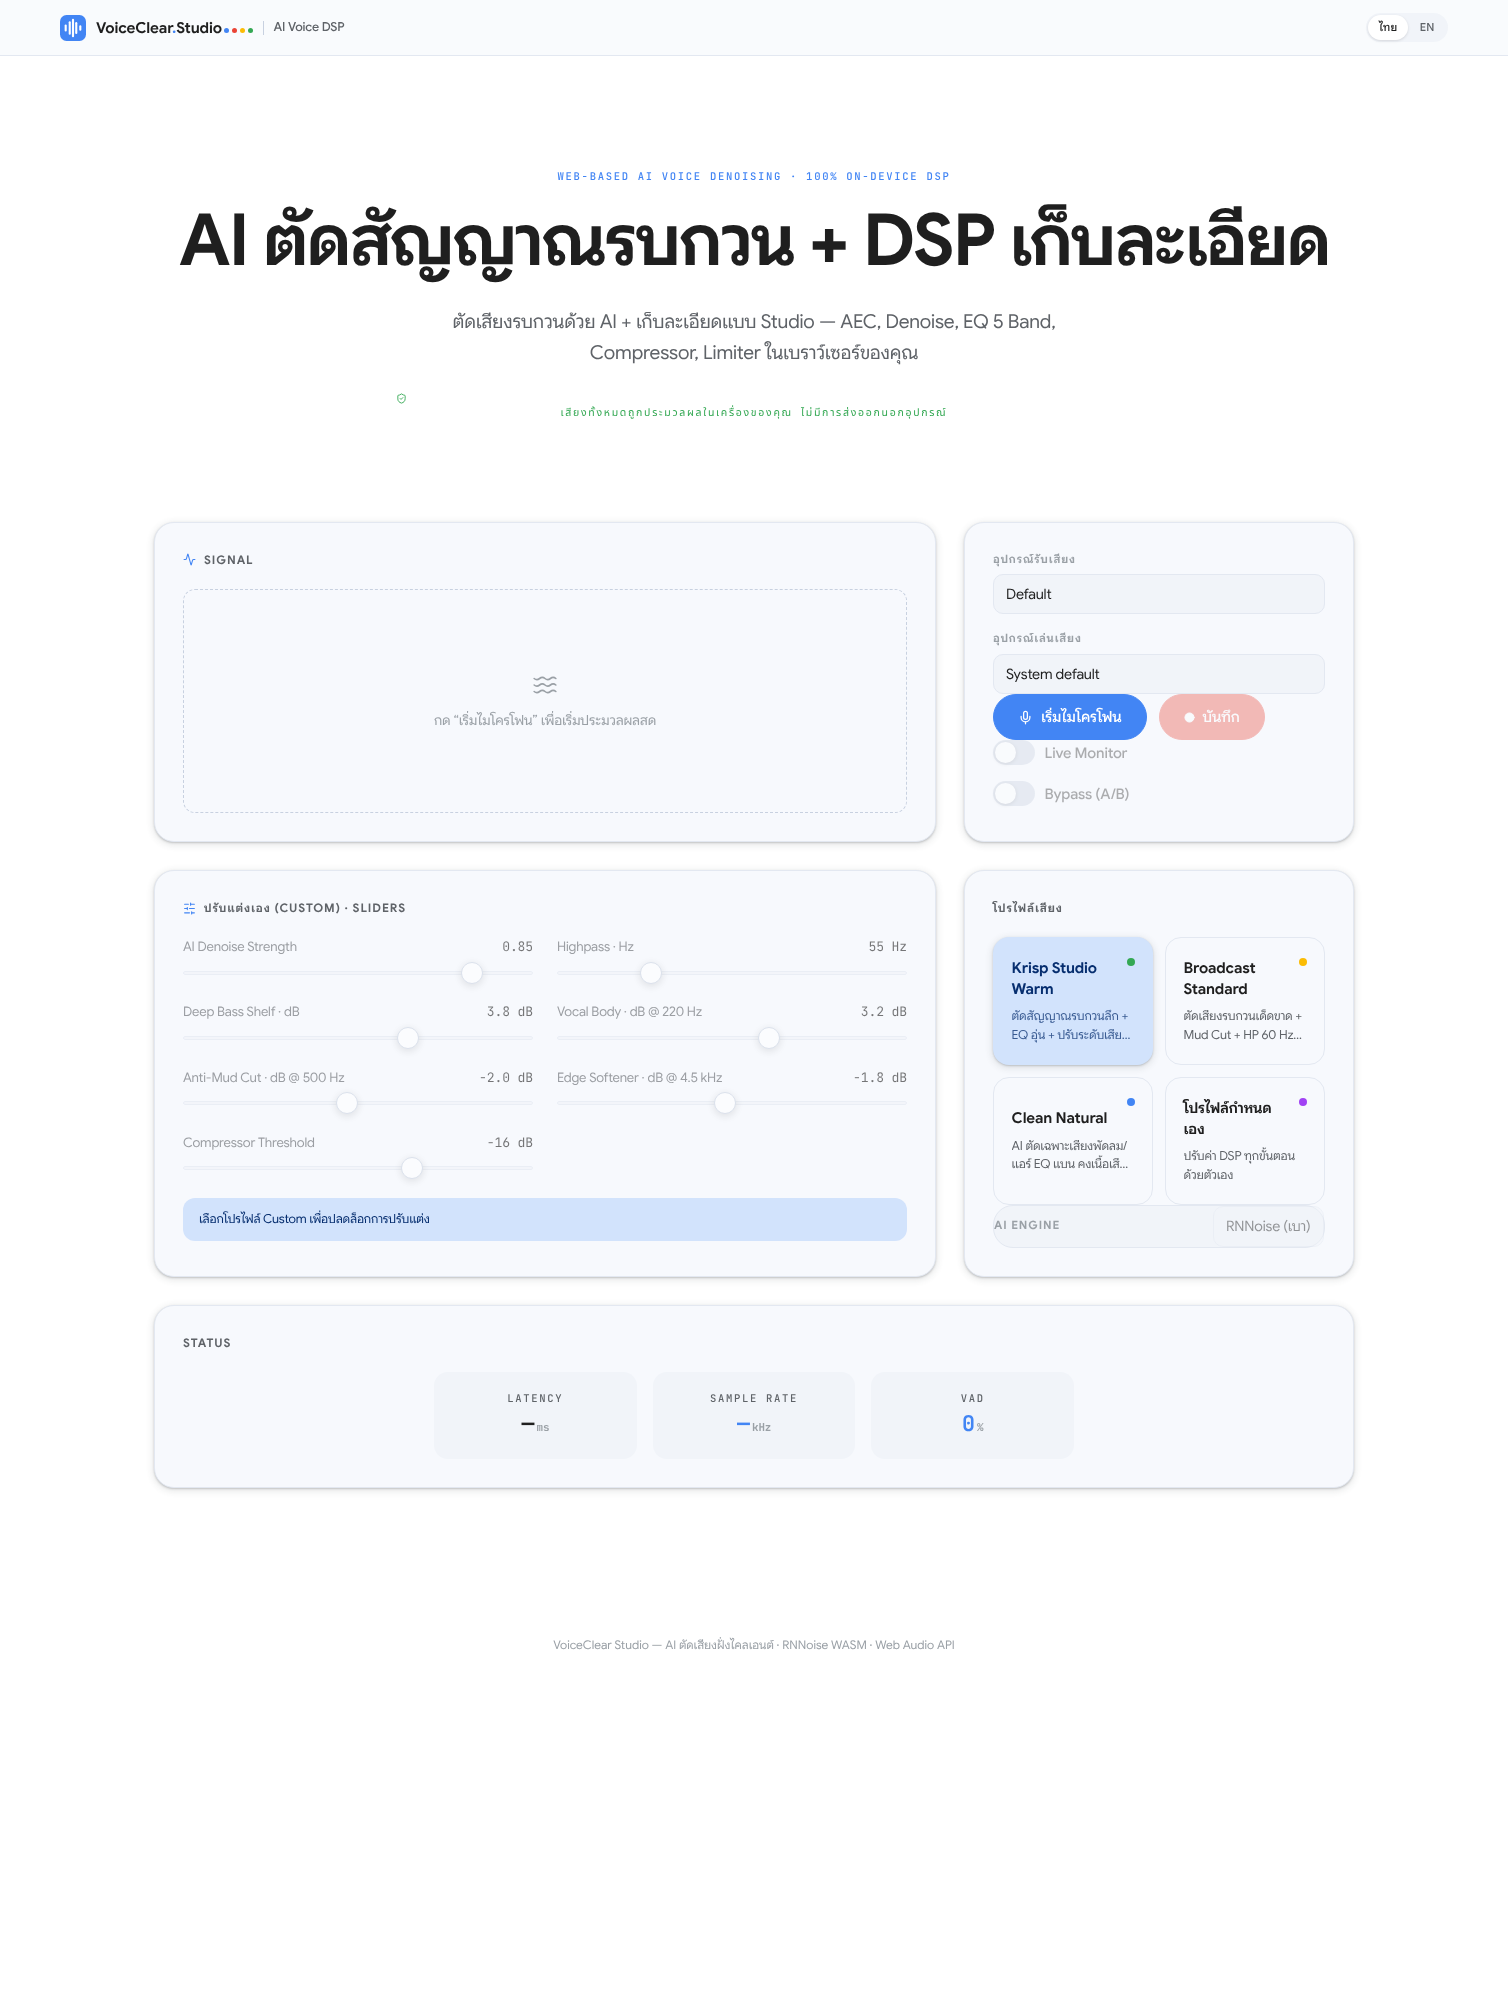
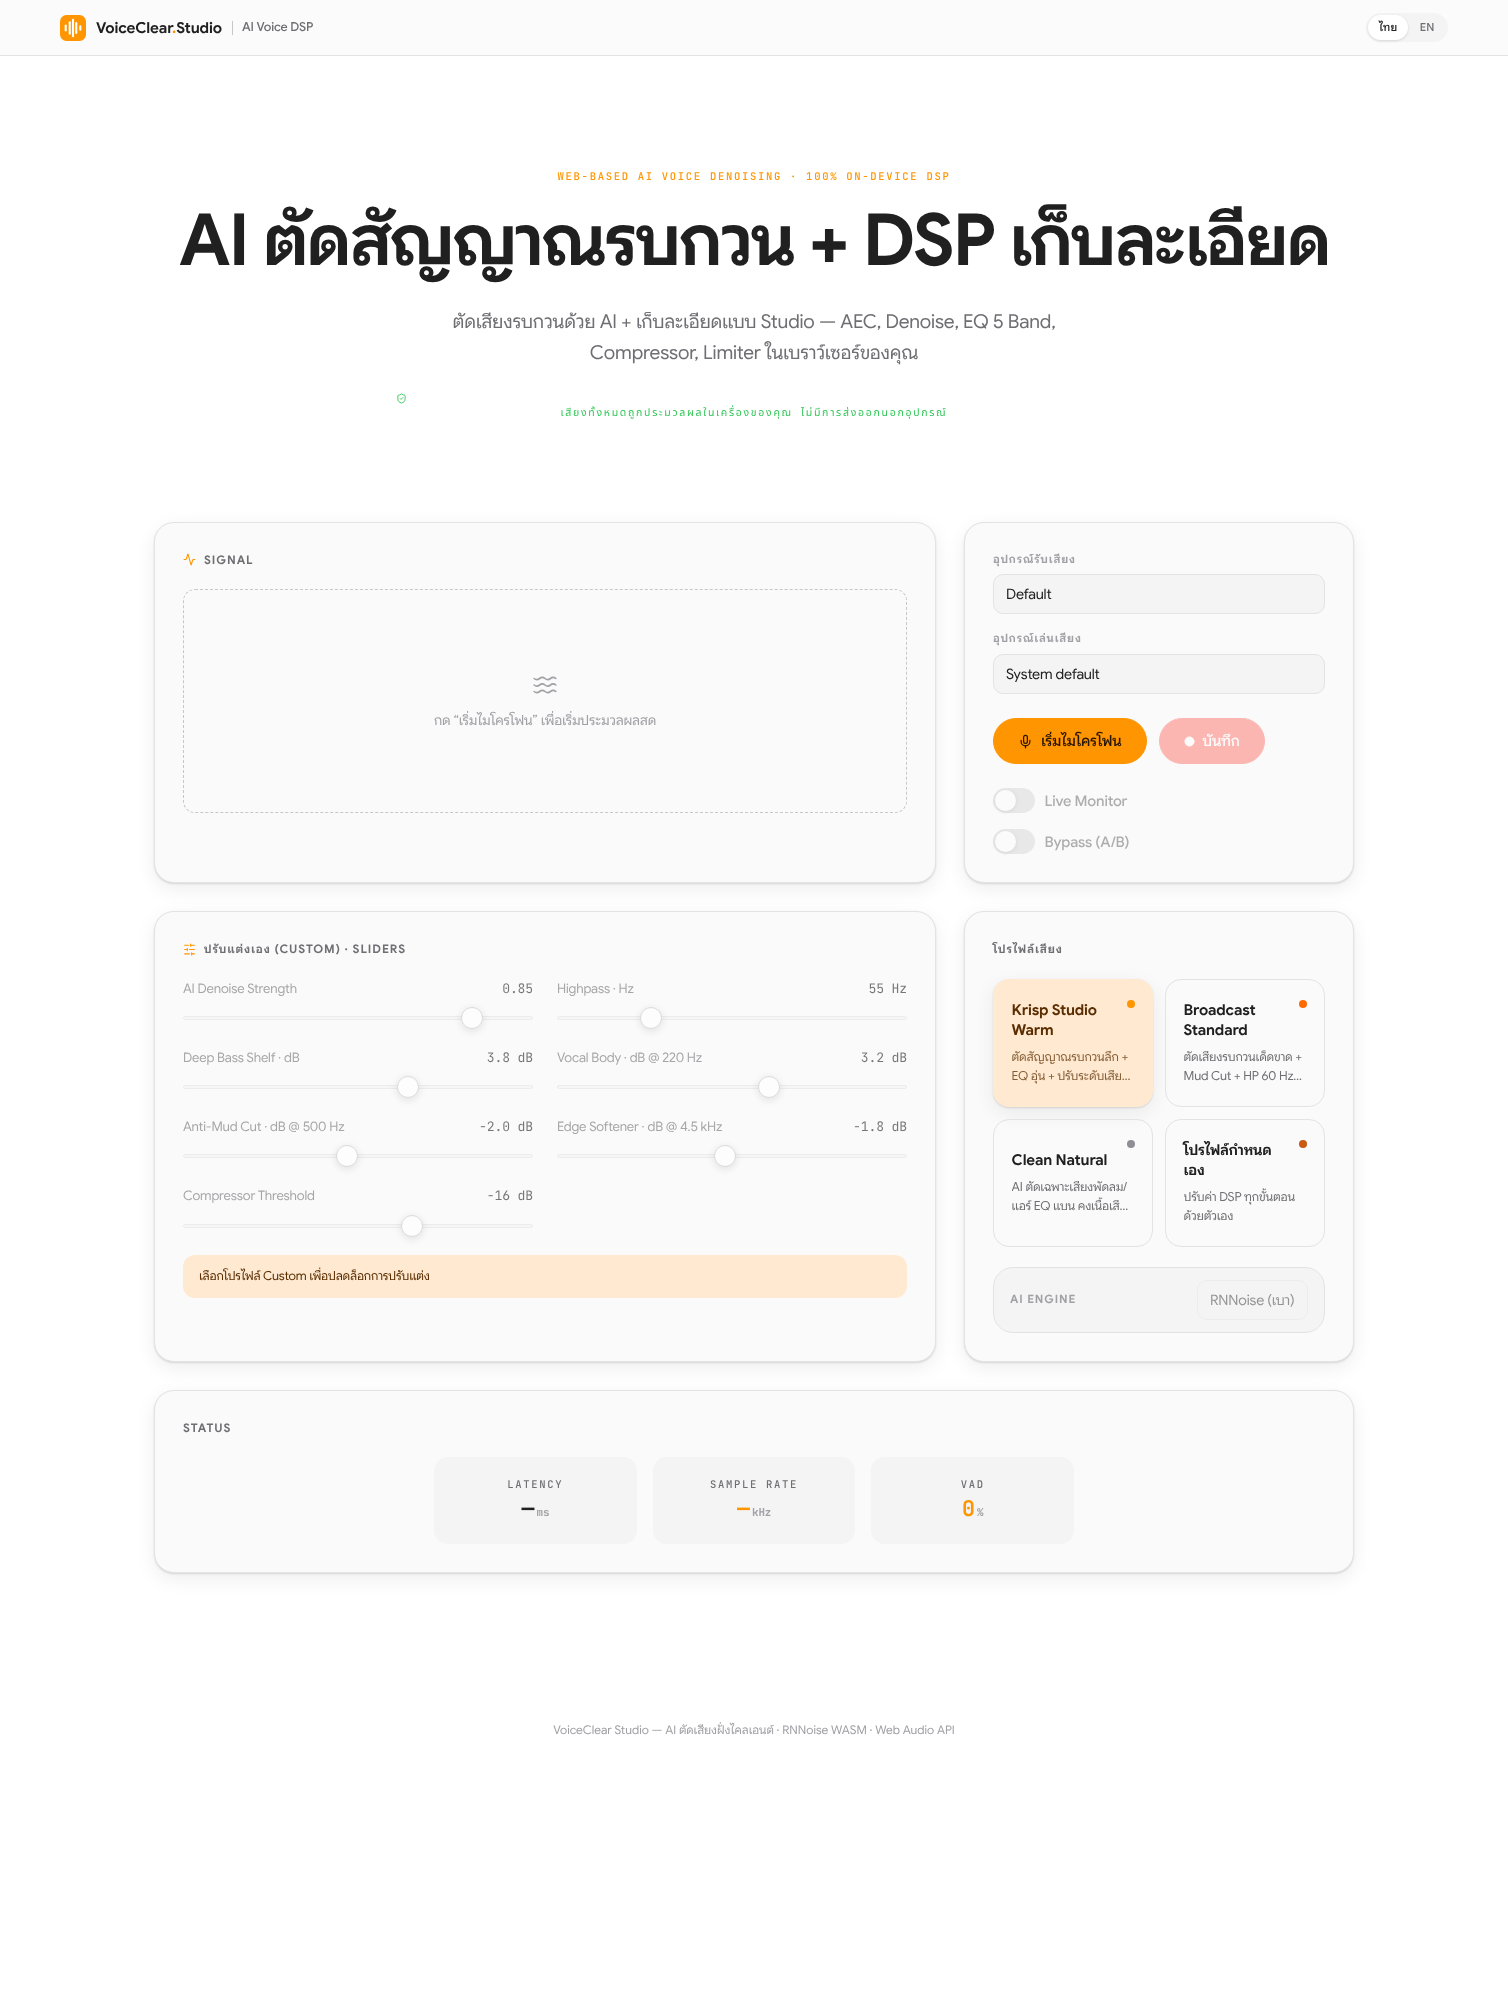
style: switch to white graphite and orange theme

diff --git a/src/index.css b/src/index.css
@@ -1,50 +1,46 @@
 @import "tailwindcss";
 
 /* ═════════════════════════════════════════════
-   APPLE × GOOGLE DESIGN SYSTEM (VoiceClear Studio)
-   Apple structure · Material You palette & elevation · SF + Google Sans
+   WHITE × GRAPHITE × ORANGE DESIGN SYSTEM
+   Apple structure · warm Material tonal surfaces · SF + Google Sans
    ═════════════════════════════════════════════ */
 :root {
   color-scheme: light;
-  /* M3 v2 (light) — neutral with cool tint */
   --bg: #ffffff;
-  --bg-alt: #f1f4f9; /* surface-container */
-  --bg-raised: #f7f9fd; /* surface-container-high */
-  --border: #e3e8f1;
-  --border-strong: #c8d1e0;
-  --text: #1f1f1f;
-  --muted: #5f6368;
-  --faint: #9aa0a6;
+  --bg-alt: #f4f4f5;
+  --bg-raised: #fafafa;
+  --border: #e3e3e3;
+  --border-strong: #c7c7c7;
+  --text: #202020;
+  --muted: #6f6f73;
+  --faint: #a0a0a5;
 
-  /* Google brand palette */
-  --accent: #4285f4; /* Google Blue 500 */
-  --accent-hover: #2f77e8;
-  --g-red: #ea4335;
-  --g-yellow: #fbbc05;
-  --g-green: #34a853;
-  --g-purple: #a142f4;
-  --on-accent: #ffffff;
+  --accent: #ff9500;
+  --accent-hover: #e57d00;
+  --g-red: #ff3b30;
+  --g-yellow: #ffcc00;
+  --g-green: #34c759;
+  --g-purple: #af52de;
+  --on-accent: #2b1700;
 
-  /* Material tonal containers */
-  --primary-container: #d2e3fc;
-  --on-primary-container: #062e6f;
-  --green-container: #ceead6;
-  --on-green-container: #04320f;
-  --red-container: #f8d7d3;
-  --on-red-container: #5b0d06;
+  --primary-container: #ffead1;
+  --on-primary-container: #5a2d00;
+  --green-container: #e2f5e7;
+  --on-green-container: #123d1c;
+  --red-container: #ffe5e2;
+  --on-red-container: #5b1410;
 
   --live: var(--g-green);
   --beta: var(--g-yellow);
   --dev: var(--g-purple);
   --danger: var(--g-red);
   --danger-hover: #d93025;
-  --canvas-bg: #0c0c10;
-  --header-bg: rgba(248, 250, 253, 0.82);
+  --canvas-bg: #111111;
+  --header-bg: rgba(250, 250, 250, 0.86);
 
-  /* Google elevation */
   --shadow-card:
-    0 1px 2px 0 rgba(60, 64, 67, 0.24), 0 2px 6px 2px rgba(60, 64, 67, 0.1);
-  --shadow-glass: 0 8px 28px rgba(60, 64, 67, 0.16);
+    0 1px 2px rgba(0, 0, 0, 0.12), 0 6px 20px rgba(0, 0, 0, 0.07);
+  --shadow-glass: 0 8px 28px rgba(0, 0, 0, 0.12);
 
   --font-sans:
     -apple-system, BlinkMacSystemFont, "SF Pro Display", "SF Pro Text",
@@ -62,33 +58,32 @@
 @media (prefers-color-scheme: dark) {
   :root {
     color-scheme: dark;
-    /* M3 v2 (dark) */
-    --bg: #131314;
-    --bg-alt: #1e1e20;
-    --bg-raised: #28282b;
-    --border: #3c3c43;
-    --border-strong: #54545c;
-    --text: #e4e4e7;
-    --muted: #a1a1a6;
-    --faint: #717176;
+    --bg: #111111;
+    --bg-alt: #1c1c1e;
+    --bg-raised: #262628;
+    --border: #3a3a3c;
+    --border-strong: #545458;
+    --text: #f5f5f7;
+    --muted: #aeaeb2;
+    --faint: #747478;
 
-    --accent: #a8c7fa;
-    --accent-hover: #c1d9fc;
-    --on-accent: #062e6f;
-    --primary-container: #23477d;
-    --on-primary-container: #d2e3fc;
-    --green-container: #0f3d1e;
-    --on-green-container: #ceead6;
-    --red-container: #5c1b13;
-    --on-red-container: #f8d7d3;
-    --g-red: #f28b82;
-    --g-yellow: #fdd663;
-    --g-green: #81c995;
-    --g-purple: #d7aefb;
+    --accent: #ff9f0a;
+    --accent-hover: #ffb340;
+    --on-accent: #2b1700;
+    --primary-container: #5a3000;
+    --on-primary-container: #ffe0b2;
+    --green-container: #153d20;
+    --on-green-container: #d4f4dc;
+    --red-container: #5a1c18;
+    --on-red-container: #ffd9d5;
+    --g-red: #ff6961;
+    --g-yellow: #ffd60a;
+    --g-green: #30d158;
+    --g-purple: #bf5af2;
 
-    --danger: #f28b82;
-    --danger-hover: #faaba9;
-    --header-bg: rgba(19, 19, 20, 0.82);
+    --danger: #ff6961;
+    --danger-hover: #ff8983;
+    --header-bg: rgba(20, 20, 20, 0.86);
     --shadow-card: none;
     --shadow-glass: none;
   }
@@ -110,7 +105,7 @@ body {
   transition: background 0.35s ease, color 0.35s ease;
 }
 
-::selection { background: rgba(0, 113, 227, 0.18); }
+::selection { background: rgba(255, 149, 0, 0.2); }
 
 /* ── Micro label (mono, uppercase) ── */
 .mono {
@@ -282,7 +277,7 @@ body {
 .btn-danger { background: var(--danger); border-color: var(--danger); color: #fff; }
 .btn-danger:hover { background: var(--danger-hover); }
 .btn-ghost-accent { color: var(--accent); border-color: var(--accent); background: transparent; }
-.btn-ghost-accent:hover { background: rgba(66, 133, 244, 0.08); }
+.btn-ghost-accent:hover { background: rgba(255, 149, 0, 0.1); }
 /* Material tonal button — Google signature */
 .btn-tonal { background: var(--primary-container); border-color: transparent; color: var(--on-primary-container); }
 .btn-tonal:hover { background: color-mix(in srgb, var(--primary-container) 80%, var(--accent) 20%); }
@@ -446,15 +441,6 @@ body {
   transition: filter 0.2s;
 }
 .export-pill:hover { filter: brightness(0.97); }
-
-/* Google multi-colour brand dots */
-.g-dots { display: inline-flex; gap: 3px; margin-left: 0.15rem; }
-.g-dots i {
-  width: 5px;
-  height: 5px;
-  border-radius: 999px;
-  display: inline-block;
-}
 
 /* ── Footer ── */
 .app-footer { text-align: center; padding: 3.25rem 0 1.5rem; font-size: 0.75rem; color: var(--faint); letter-spacing: 0; }

diff --git a/src/App.tsx b/src/App.tsx
@@ -167,7 +167,7 @@ export default function App() {
       <header className="glass-header">
         <div className="brand">
           <svg width="26" height="26" viewBox="0 0 32 32" aria-hidden>
-            <rect width="32" height="32" rx="8" fill="#4285f4" />
+            <rect width="32" height="32" rx="8" fill="var(--accent)" />
             <g stroke="#fff" strokeWidth="2.6" strokeLinecap="round">
               <line x1="7" y1="13" x2="7" y2="19" />
               <line x1="12" y1="9" x2="12" y2="23" />
@@ -179,12 +179,6 @@ export default function App() {
           <span className="brand-name">
             VoiceClear
             <span className="brand-dot">.</span>Studio
-            <span className="g-dots" aria-hidden>
-              <i style={{ background: "#4285f4" }} />
-              <i style={{ background: "#ea4335" }} />
-              <i style={{ background: "#fbbc05" }} />
-              <i style={{ background: "#34a853" }} />
-            </span>
           </span>
           <span className="brand-divider" />
           <span className="brand-section">AI Voice DSP</span>

diff --git a/index.html b/index.html
@@ -5,6 +5,7 @@
     <link rel="icon" type="image/svg+xml" href="/mic.svg" />
     <meta name="viewport" content="width=device-width, initial-scale=1.0" />
     <meta name="description" content="VoiceClear Studio — AI Voice Denoising & DSP Mastering in your browser. 100% on-device." />
+    <meta name="theme-color" content="#ff9500" />
     <title>VoiceClear Studio</title>
   </head>
   <body>

diff --git a/src/ui/PresetGrid.tsx b/src/ui/PresetGrid.tsx
@@ -4,10 +4,10 @@ import type { Lang } from "../i18n";
 
 /** Per-preset status dot colour (PPotfolio-style live/beta/dev palette). */
 const DOT_COLOR: Record<PresetId, string> = {
-  warm: "#34a853",
-  broadcast: "#fbbc05",
-  natural: "#4285f4",
-  custom: "#a142f4",
+  warm: "#ff9500",
+  broadcast: "#ff6b00",
+  natural: "#8e8e93",
+  custom: "#c75b12",
 };
 
 export function PresetGrid({
